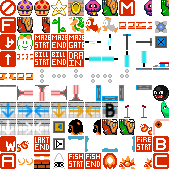
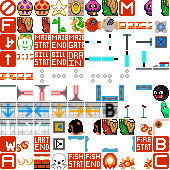
Replace flag, squid, and fish.

Changed region(s): [[0.5, 0.0882, 0.7059, 0.2059], [0.2941, 0.8824, 0.4118, 1.0]]

diff --git a/README.md b/README.md
@@ -10,7 +10,7 @@ Mario-like stuff by Kelvin Shadewing (http://kelvinshadewing.net)
 https://opengameart.org/content/mario-like-stuff
 License: CC-BY-SA 4.0
 
-Goomba and Peach
+Goomba, Peach, and mushroom on flag
 Modified from Super-Guido by Kelvin Shadewing (http://kelvinshadewing.net)
 https://opengameart.org/content/super-guido
 License: CC-BY-SA 4.0
@@ -28,6 +28,11 @@ License: CC-BY-SA 4.0
 Koopa and Red Koopa
 Modified from Monsterboy in Wonder World mockup assets by surt
 https://opengameart.org/content/monsterboy-in-wonder-world-mockup-assets
+License: CC-BY-SA 3.0
+
+Squid
+Modified from Random Ocean Creatures by RAPIDPUNCHES
+https://opengameart.org/content/random-ocean-creatures
 License: CC-BY-SA 3.0
 
 Castle bricks, castle inside bricks and block debris
